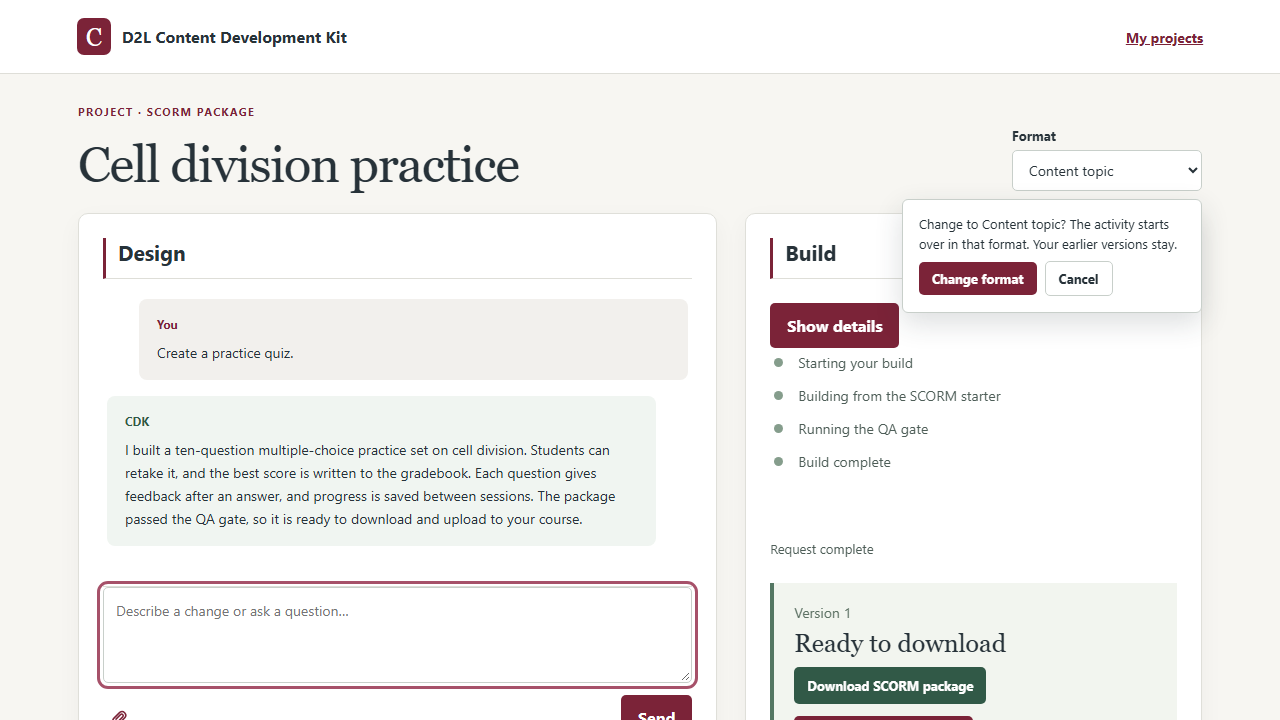
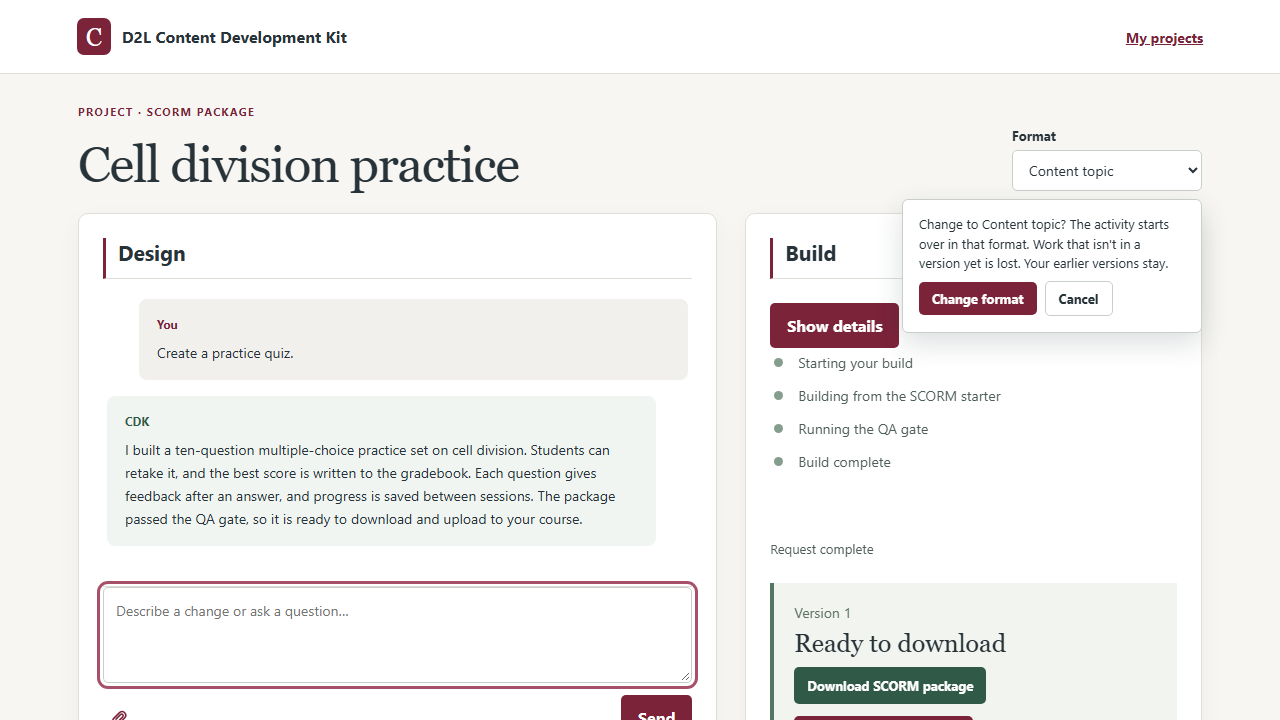
B34: Ask before every change of a set format, and mark the old version
The Format menu asks whenever the project already has a format, and says that
work not yet in a version is lost. Send is disabled while the change saves.
Until the rebuild, the build card says which format its version is in.

Changed region(s): [[0.7188, 0.3361, 0.9062, 0.4583]]

diff --git a/front-end/src/ProjectWorkspace.tsx b/front-end/src/ProjectWorkspace.tsx
@@ -24,8 +24,13 @@ function messageFiles(message: Message) {
   return message.content.filter(block => block.type === 'file');
 }
 
-function BuildPanel({ build, turn, statusLines, connection, outcome, disabled, onAskForFix, onSendAgain, onEdit, onNewProject }: {
+/** Each format as a sentence names it. */
+const A_FORMAT: Record<BuildableAvenue, string> = { scorm: 'a SCORM package', topic: 'a content topic' };
+
+function BuildPanel({ build, projectAvenue, turn, statusLines, connection, outcome, disabled, onAskForFix, onSendAgain, onEdit, onNewProject }: {
   build: Build | null;
+  /** The project's format, which a build made before a format change differs from. */
+  projectAvenue: BuildableAvenue | null;
   turn: ProjectEventState['turn'];
   statusLines: ProjectEventState['statusLines'];
   connection: ConnectionStatus;
@@ -45,6 +50,8 @@ function BuildPanel({ build, turn, statusLines, connection, outcome, disabled, o
       <article className={`build-result build-${build.status}`} aria-labelledby="build-result-title">
         <p className="result-label">Version {build.version}</p>
         <h3 id="build-result-title">{build.status === 'ready' ? 'Ready to download' : build.status === 'failed' ? 'QA needs attention' : 'Build is being checked'}</h3>
+        {projectAvenue && (build.avenue === 'scorm' || build.avenue === 'topic') && build.avenue !== projectAvenue &&
+          <p>{`This version is ${A_FORMAT[build.avenue]}. Send a request to rebuild it as ${A_FORMAT[projectAvenue]}.`}</p>}
         {build.error && <ErrorNotice failure={readFailure(build.error)} disabled={disabled} onAskForFix={onAskForFix} onSendAgain={onSendAgain} onEdit={onEdit} onNewProject={onNewProject} />}
         {!!build.qa?.findings.length && <ul className="findings">{build.qa.findings.map((finding, index) =>
           <li key={index}><strong>{finding.severity === 'warn' ? 'WARNING' : 'ERROR'}</strong> {finding.message}{finding.because && <p>{finding.because}</p>}</li>)}</ul>}
@@ -70,47 +77,40 @@ const FORMATS: Record<FormatChoice, { name: string; description: string }> = {
 
 const BUILDABLE_AVENUES: BuildableAvenue[] = ['scorm', 'topic'];
 
-/** How a request to rebuild in each format names it. */
-const REBUILD_AS: Record<BuildableAvenue, string> = { scorm: 'a SCORM package', topic: 'a content topic' };
-
-/** The open project's format, as a menu that changes it. With `confirms`, a change asks first. */
-function FormatSetting({ avenue, disabled, confirms, onChange }: {
+/** The open project's format, as a menu that changes it. Changing a format that is set asks first. */
+function FormatSetting({ avenue, disabled, onChange }: {
   avenue: BuildableAvenue | null;
   disabled: boolean;
-  confirms: boolean;
   onChange: (avenue: BuildableAvenue) => Promise<void>;
 }) {
   const [asking, setAsking] = useState<BuildableAvenue | null>(null);
-  const [saving, setSaving] = useState(false);
   const [error, setError] = useState('');
   const menu = useRef<HTMLSelectElement>(null);
 
   async function change(next: BuildableAvenue) {
-    setAsking(null); setError(''); setSaving(true);
+    setAsking(null); setError('');
     try {
       await onChange(next);
     } catch (caught) {
       setError(caught instanceof ApiError ? caught.message : 'Try again.');
-    } finally {
-      setSaving(false);
     }
   }
 
   function choose(next: string) {
     if (next !== 'scorm' && next !== 'topic') return;
     if (next === avenue) setAsking(null);
-    else if (confirms) setAsking(next);
+    else if (avenue) setAsking(next);
     else void change(next);
   }
 
   return <div className="format-setting">
     <label htmlFor="project-format">Format</label>
-    <select ref={menu} id="project-format" value={asking ?? avenue ?? 'auto'} disabled={disabled || saving} onChange={event => choose(event.target.value)}>
+    <select ref={menu} id="project-format" value={asking ?? avenue ?? 'auto'} disabled={disabled} onChange={event => choose(event.target.value)}>
       {!avenue && <option value="auto">{FORMATS.auto.name}</option>}
       {BUILDABLE_AVENUES.map(value => <option key={value} value={value}>{FORMATS[value].name}</option>)}
     </select>
     {asking && <div className="format-confirm" role="group" aria-label="Change format">
-      <p role="status">Change to {FORMATS[asking].name}? The activity starts over in that format. Your earlier versions stay.</p>
+      <p role="status">{`Change to ${FORMATS[asking].name}? The activity starts over in that format. Work that isn't in a version yet is lost. Your earlier versions stay.`}</p>
       <button type="button" disabled={disabled} onClick={() => void change(asking)}>Change format</button>
       <button type="button" className="format-keep" onClick={() => { setAsking(null); menu.current?.focus(); }}>Cancel</button>
     </div>}
@@ -145,7 +145,8 @@ export function ProjectWorkspace({ initialProject = null, initialTurnId }: { ini
   const activeTurnId = pendingTurn !== null && turn.id !== pendingTurn && awaitingTurn
     ? pendingTurn : turn.status === 'running' ? turn.id : null;
   const isBuilding = sending || activeTurnId !== null;
-  const cannotSend = isBuilding || !agent.ready;
+  const [savingFormat, setSavingFormat] = useState(false);
+  const cannotSend = isBuilding || savingFormat || !agent.ready;
   const activeStop = stopAttempt?.turnId === activeTurnId ? stopAttempt : null;
   const stopping = activeStop !== null && !activeStop.error;
   const latestBuild = [...builds].sort((a, b) => b.version - a.version)[0] ?? null;
@@ -222,9 +223,15 @@ export function ProjectWorkspace({ initialProject = null, initialTurnId }: { ini
 
   async function changeFormat(next: BuildableAvenue) {
     if (!project) return;
-    setProject((await updateProject(project.id, { avenue: next })).project);
-    if (!builds.length) return;
-    setRequestText(current => current.trim() ? current : 'Rebuild this activity as ' + REBUILD_AS[next] + '.');
+    const startsOver = projectAvenue !== null;
+    setSavingFormat(true);
+    try {
+      setProject((await updateProject(project.id, { avenue: next })).project);
+    } finally {
+      setSavingFormat(false);
+    }
+    if (!startsOver) return;
+    setRequestText(current => current.trim() ? current : 'Rebuild this activity as ' + A_FORMAT[next] + '.');
     messageBox.current?.focus();
   }
 
@@ -291,7 +298,7 @@ export function ProjectWorkspace({ initialProject = null, initialTurnId }: { ini
       <p className="workspace-eyebrow">{!project ? 'Course material workspace' : format ? `Project · ${format}` : 'Project'}</p>
       <div className="title-row">
         <h1 id="page-title">{project?.title ?? 'Create an activity'}</h1>
-        {project && <FormatSetting key={project.id} avenue={projectAvenue} disabled={isBuilding} confirms={builds.length > 0} onChange={changeFormat} />}
+        {project && <FormatSetting key={project.id} avenue={projectAvenue} disabled={isBuilding || savingFormat} onChange={changeFormat} />}
       </div>
     </section>
     <div className="workspace">
@@ -353,7 +360,7 @@ export function ProjectWorkspace({ initialProject = null, initialTurnId }: { ini
           {error && <ErrorNotice failure={error} disabled={cannotSend} onSendAgain={() => void submitRequest(requestText, attachments)} onEdit={() => messageBox.current?.focus()} onNewProject={startNewProject} onAskForFix={askForFix} onSignIn={() => void agent.start()} />}
         </form>
       </section>
-      <BuildPanel build={latestBuild} turn={turn} statusLines={statusLines} connection={connection} outcome={outcomes[turn.id ?? '']?.message} disabled={isBuilding} onAskForFix={askForFix}
+      <BuildPanel build={latestBuild} projectAvenue={projectAvenue} turn={turn} statusLines={statusLines} connection={connection} outcome={outcomes[turn.id ?? '']?.message} disabled={isBuilding} onAskForFix={askForFix}
         onSendAgain={() => { const original = messages.find(message => message.role === 'instructor' && message.turnId === latestBuild?.turnId); if (original) void submitRequest(messageText(original), [], messageFiles(original)); }}
         onEdit={() => messageBox.current?.focus()} onNewProject={startNewProject} />
       <PreviewPanel build={readyBuild} />

diff --git a/front-end/src/ProjectWorkspace.test.tsx b/front-end/src/ProjectWorkspace.test.tsx
@@ -320,7 +320,7 @@ describe('format of an open project', () => {
       : { items: [] }));
   });
 
-  it('offers Let CDK choose until the project has a format, and changes it without asking before the first version', async () => {
+  it('offers Let CDK choose until the project has a format, and sets one without asking', async () => {
     render(<ProjectWorkspace initialProject={{ ...project, avenue: null }} />);
     const format = screen.getByLabelText('Format');
     expect(format).toHaveValue('auto');
@@ -332,19 +332,28 @@ describe('format of an open project', () => {
     expect(screen.getByLabelText('Describe a change')).toHaveValue('');
   });
 
-  it('asks before changing the format of a project with a version, then drafts a request to rebuild it', async () => {
+  it('asks before changing a format that is set, holds Send while it saves, then drafts a rebuild and marks the old version', async () => {
+    let respond!: (response: Response) => void;
+    fetchMock.mockImplementation((_url: string, init?: RequestInit) => init?.method === 'PATCH'
+      ? new Promise<Response>(resolve => { respond = resolve; })
+      : Promise.resolve(Response.json({ items: [] })));
     render(<ProjectWorkspace initialProject={project} />);
     await waitFor(() => expect(Stream.latest).toBeDefined());
     emit({ seq: 1, kind: 'build.created', payload: { build: build(1) } });
+    const send = screen.getByRole('button', { name: 'Send' });
 
     fireEvent.change(screen.getByLabelText('Format'), { target: { value: 'topic' } });
     const confirmation = screen.getByRole('group', { name: 'Change format' });
-    expect(confirmation).toHaveTextContent('Change to Content topic?');
+    expect(confirmation).toHaveTextContent("Change to Content topic? The activity starts over in that format. Work that isn't in a version yet is lost.");
     expect(fetchMock).not.toHaveBeenCalledWith('/api/projects/p1', expect.anything());
     fireEvent.click(within(confirmation).getByRole('button', { name: 'Change format' }));
+    await waitFor(() => expect(send).toBeDisabled());
+    await act(async () => respond(Response.json({ project: { ...project, avenue: 'topic', updatedAt: 2 } })));
 
     await waitFor(() => expect(screen.getByLabelText('Describe a change')).toHaveValue('Rebuild this activity as a content topic.'));
+    expect(send).toBeEnabled();
     expect(fetchMock).toHaveBeenCalledWith('/api/projects/p1', expect.objectContaining({ method: 'PATCH', body: JSON.stringify({ avenue: 'topic' }) }));
     expect(screen.getByText('Project · Content topic', { exact: true })).toBeVisible();
+    expect(screen.getByText('This version is a SCORM package. Send a request to rebuild it as a content topic.')).toBeVisible();
   });
 });

diff --git a/front-end/e2e/format-change.spec.ts b/front-end/e2e/format-change.spec.ts
@@ -18,12 +18,13 @@ test('the instructor changes the format of a built project and rebuilds it', asy
 
   await format.selectOption('topic');
   const confirmation = page.getByRole('group', { name: 'Change format' });
-  await expect(confirmation).toContainText('Change to Content topic?');
+  await expect(confirmation).toContainText("Change to Content topic? The activity starts over in that format. Work that isn't in a version yet is lost.");
   expect((await new AxeBuilder({ page }).include('.intro').analyze()).violations).toEqual([]);
   await confirmation.getByRole('button', { name: 'Change format' }).click();
 
   await expect(page.locator('.workspace-eyebrow')).toHaveText('Project · Content topic');
   await expect(page.getByLabel('Describe a change')).toHaveValue('Rebuild this activity as a content topic.');
+  await expect(page.getByRole('article', { name: 'Ready to download' })).toContainText('This version is a SCORM package. Send a request to rebuild it as a content topic.');
   await page.getByRole('button', { name: 'Send', exact: true }).click();
   await expect(page.getByRole('link', { name: /download content topic/i })).toBeVisible({ timeout: 15_000 });
 });

diff --git a/front-end/README.md b/front-end/README.md
@@ -40,7 +40,7 @@ Live progress and the working indicator sit in the build panel. At turn end it c
 
 The build panel shows the newest build. The preview shows the newest ready build, so a checking or failed build keeps the previous ready preview and its version label. Restart reloads the emulator with a fresh attempt. The desktop layout places chat and build side by side with preview below; narrow windows stack the three regions.
 
-An open project's Format menu changes its format between requests. Before a format is set it also shows Let CDK choose. Once the project has a version, a change asks first, then drafts a request to rebuild in the new format.
+An open project's Format menu changes its format between requests. Before a format is set it also shows Let CDK choose. Changing a format that is set asks first, because work that isn't in a version yet is lost, then drafts a request to rebuild in the new format. Until that rebuild, the build card says which format its version is in. Send is disabled while the change saves.
 
 ## Stub scenarios
 
